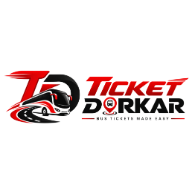
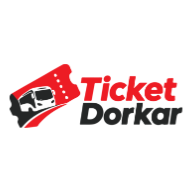
logoicons replace

Changed region(s): [[0.0312, 0.3125, 1.0, 0.6875]]

diff --git a/app/layout.tsx b/app/layout.tsx
@@ -72,7 +72,7 @@ export const metadata: Metadata = {
       'Book intercity AC & Non-AC bus tickets online across Bangladesh with Ticket Dorkar Limited. Instant E-Tickets, instant seat confirmation, 24/7 customer support.',
     images: [
       {
-        url: `${SITE_URL}/ticketdorkarlogo.png`,
+        url: `${SITE_URL}/ticketdrkrlogo.png`,
         width: 1200,
         height: 630,
         alt: 'Ticket Dorkar Limited - Online Bus Ticket Booking Bangladesh',
@@ -84,7 +84,7 @@ export const metadata: Metadata = {
     title: 'Ticket Dorkar Limited — Online Bus Ticket Booking Bangladesh',
     description:
       'Book bus tickets online between Dhaka, Chittagong & Cox\'s Bazar. Secure E-tickets on Ticket Dorkar Limited.',
-    images: [`${SITE_URL}/ticketdorkarlogo.png`],
+    images: [`${SITE_URL}/ticketdrkrlogo.png`],
   },
   robots: {
     index: true,
@@ -122,8 +122,8 @@ const jsonLdOrganization = {
   legalName: 'Ticket Dorkar Limited',
   alternateName: ['Ticket Dorkar', 'Ticket Dorkar Ltd', 'ticketdorkar', 'ticketdorkarltd', 'Ticket Dorkar Limited'],
   url: SITE_URL,
-  logo: `${SITE_URL}/ticketdorkarlogo.png`,
-  image: `${SITE_URL}/ticketdorkarlogo.png`,
+  logo: `${SITE_URL}/ticketdrkrlogo.png`,
+  image: `${SITE_URL}/ticketdrkrlogo.png`,
   description:
     'Ticket Dorkar Limited (ticketdorkar.xyz) is Bangladesh\'s premier intercity bus ticket booking platform offering online AC and Non-AC bus tickets.',
   telephone: '01826-110036',

diff --git a/components/layout/Header.tsx b/components/layout/Header.tsx
@@ -81,11 +81,11 @@ export function Header() {
               </button>
 
               {/* Logo */}
-              <Link href={ROUTES.HOME} className="flex items-center shrink-0 h-full py-0.5">
+              <Link href={ROUTES.HOME} className="flex items-center shrink-0 py-1">
                 <img
-                  src="/ticketdorkarlogo.png"
+                  src="/ticketdrkrlogo.png"
                   alt="Ticket Dorkar"
-                  className="h-15 sm:h-[70px] lg:h-[76px] w-auto max-h-full object-contain transition-transform hover:scale-105"
+                  className="h-12 sm:h-[60px] lg:h-[66px] w-auto object-contain transition-transform hover:scale-105"
                 />
               </Link>
             </div>
@@ -195,7 +195,7 @@ export function Header() {
             <div className="flex items-center justify-between p-4 border-b border-gray-100 bg-gray-50/50">
               <Link href={ROUTES.HOME} onClick={() => setMenuOpen(false)} className="flex items-center">
                 <img
-                  src="/ticketdorkarlogo.png"
+                  src="/ticketdrkrlogo.png"
                   alt="Ticket Dorkar"
                   className="h-12 w-auto object-contain"
                 />

diff --git a/app/auth/login/page.tsx b/app/auth/login/page.tsx
@@ -48,9 +48,9 @@ export default function LoginPage() {
         <div className="relative z-10">
           <Link href={ROUTES.HOME} className="inline-block hover:scale-105 transition-transform">
             <img
-              src="/ticketdorkarlogo.png"
+              src="/ticketdrkrlogo.png"
               alt="Ticket Dorkar"
-              className="h-14 sm:h-16 w-auto object-contain"
+              className="h-11 sm:h-13 w-auto object-contain"
             />
           </Link>
         </div>
@@ -97,9 +97,9 @@ export default function LoginPage() {
           <div className="text-center mb-8">
             <Link href={ROUTES.HOME} className="inline-flex items-center justify-center mb-6">
               <img
-                src="/ticketdorkarlogo.png"
+                src="/ticketdrkrlogo.png"
                 alt="Ticket Dorkar"
-                className="h-16 sm:h-20 w-auto object-contain mx-auto transition-transform hover:scale-105"
+                className="h-12 sm:h-16 w-auto object-contain mx-auto transition-transform hover:scale-105"
               />
             </Link>
             <h1 className="text-2xl font-black text-[#111111] mb-1">Welcome back</h1>

diff --git a/components/layout/AdminSidebar.tsx b/components/layout/AdminSidebar.tsx
@@ -88,7 +88,7 @@ export function AdminSidebar() {
         {(!collapsed || isMobile) && (
           <Link href={ROUTES.HOME} title="Go to Public Website" className="flex items-center group">
             <img
-              src="/ticketdorkarlogo.png"
+              src="/ticketdrkrlogo.png"
               alt="Ticket Dorkar"
               className="h-8 sm:h-9 w-auto object-contain transition-transform group-hover:scale-105"
             />
@@ -195,7 +195,7 @@ export function AdminSidebar() {
             <Menu size={20} />
           </button>
           <Link href={ROUTES.HOME} title="Go to Public Website" className="flex items-center">
-            <img src="/ticketdorkarlogo.png" alt="Ticket Dorkar" className="h-7 w-auto object-contain" />
+            <img src="/ticketdrkrlogo.png" alt="Ticket Dorkar" className="h-7 w-auto object-contain" />
           </Link>
         </div>
         <Link

diff --git a/app/agent/login/page.tsx b/app/agent/login/page.tsx
@@ -72,9 +72,9 @@ export default function AgentLoginPage() {
         <div className="text-center mb-8">
           <Link href="/" className="inline-block mb-4 hover:opacity-90 transition-opacity">
             <img
-              src="/ticketdorkarlogo.png"
+              src="/ticketdrkrlogo.png"
               alt="Ticket Dorkar Logo"
-              className="h-16 sm:h-20 w-auto mx-auto object-contain transition-transform hover:scale-105"
+              className="h-12 sm:h-16 w-auto mx-auto object-contain transition-transform hover:scale-105"
             />
           </Link>
           <h1 className="text-2xl font-black text-[#111111]">Counter Agent Portal</h1>

diff --git a/app/auth/register/page.tsx b/app/auth/register/page.tsx
@@ -32,9 +32,9 @@ export default function RegisterPage() {
         <div className="text-center mb-8">
           <Link href={ROUTES.HOME} className="inline-flex items-center justify-center mb-6">
             <img
-              src="/ticketdorkarlogo.png"
+              src="/ticketdrkrlogo.png"
               alt="Ticket Dorkar"
-              className="h-16 sm:h-20 w-auto object-contain mx-auto transition-transform hover:scale-105"
+              className="h-12 sm:h-16 w-auto object-contain mx-auto transition-transform hover:scale-105"
             />
           </Link>
           <h1 className="text-2xl font-black text-[#111111] mb-1">Create your account</h1>

diff --git a/components/layout/Footer.tsx b/components/layout/Footer.tsx
@@ -55,7 +55,7 @@ export function Footer() {
           <div className="lg:col-span-1">
             <Link href={ROUTES.HOME} className="inline-block bg-white p-3 sm:p-3.5 rounded-2xl shadow-lg mb-5 border border-white/10 hover:scale-105 transition-transform">
               <img
-                src="/ticketdorkarlogo.png"
+                src="/ticketdrkrlogo.png"
                 alt="Ticket Dorkar"
                 className="h-12 sm:h-14 md:h-16 w-auto object-contain"
               />

diff --git a/app/ticket/[ticketNumber]/page.tsx b/app/ticket/[ticketNumber]/page.tsx
@@ -100,7 +100,7 @@ export default function TicketPage() {
               <div className="flex items-center justify-between mb-3">
                 <div className="bg-white rounded-xl px-3 py-1.5 shadow-sm">
                   <img
-                    src="/ticketdorkarlogo.png"
+                    src="/ticketdrkrlogo.png"
                     alt="Ticket Dorkar"
                     className="h-7 w-auto object-contain"
                   />
